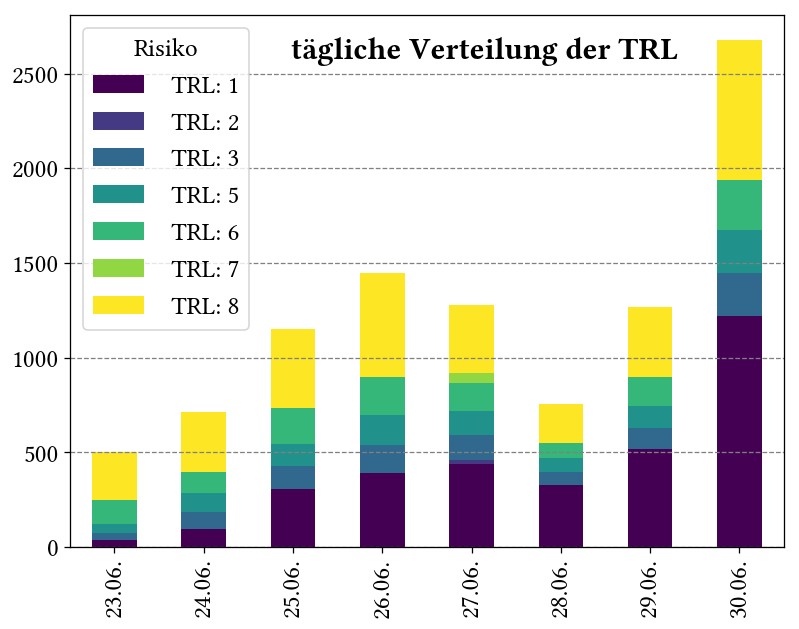
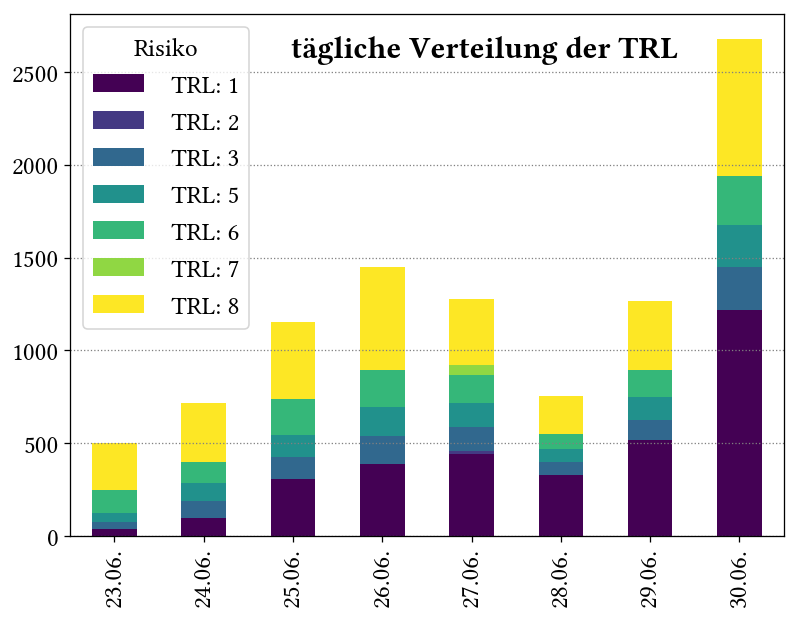
dotted y grid lines

diff --git a/scripts/CWA_TRL_daily_dist.py b/scripts/CWA_TRL_daily_dist.py
@@ -16,7 +16,7 @@ def plot_risk_level(masterframe):
     masterframe.columns = masterframe.columns.str.replace("Transmission Risk Level", "TRL")
     ax = masterframe.plot.bar(stacked=True, cmap='viridis')
     ax.set_title("tägliche Verteilung der TRL", position=(0.58, 0.9),fontweight="bold")
-    plt.grid(linestyle="dashed", color="grey", axis='y')
+    plt.grid(linestyle="dotted", color="grey", axis='y')
     plt.xlabel("")
     plt.savefig("../plot_TRL_daily_dist.png", bbox_inches = "tight", dpi=115.2)
 
